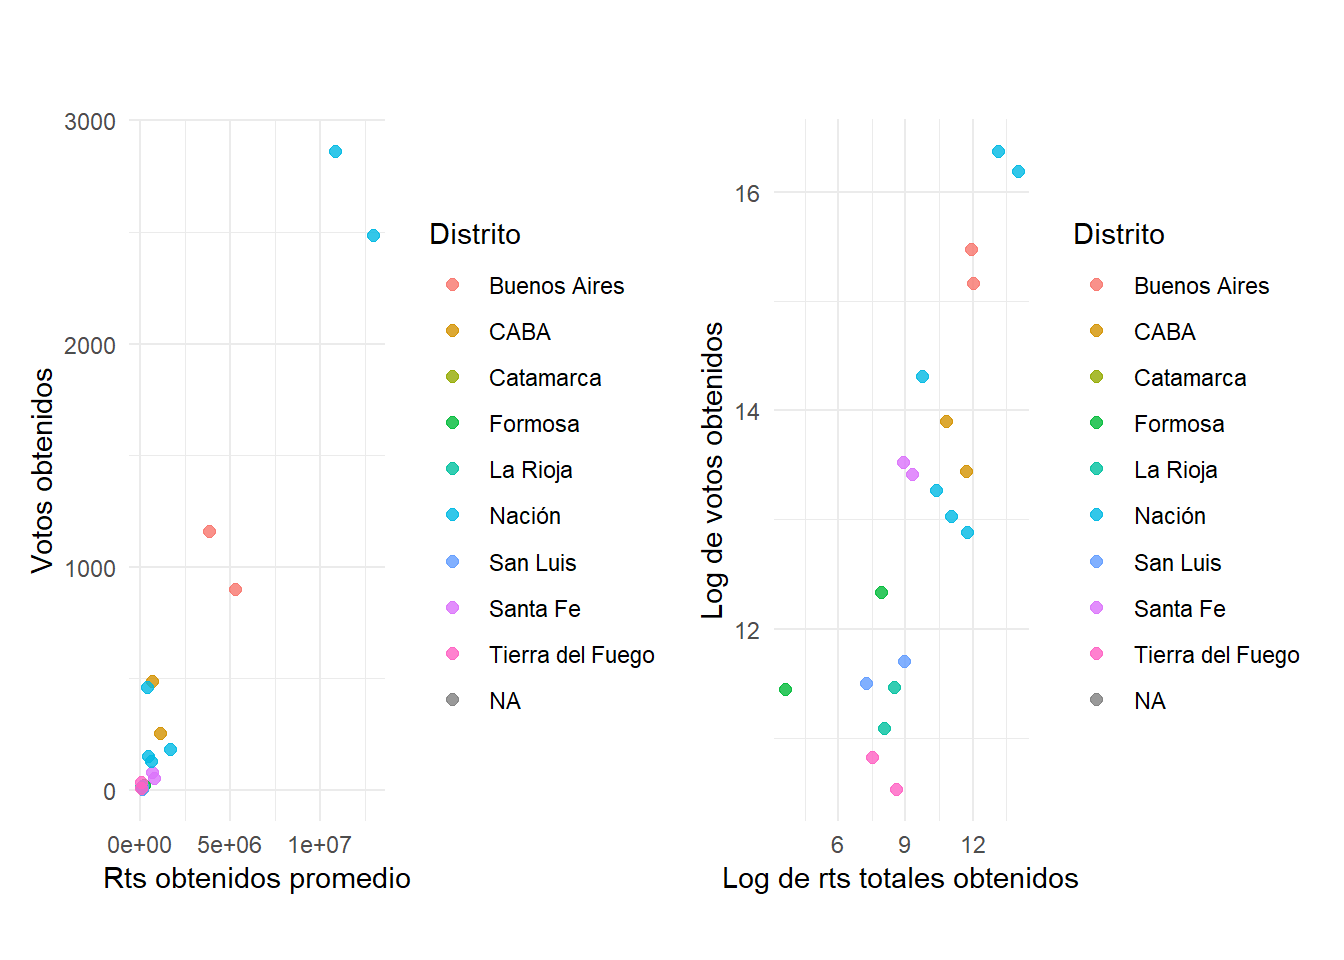
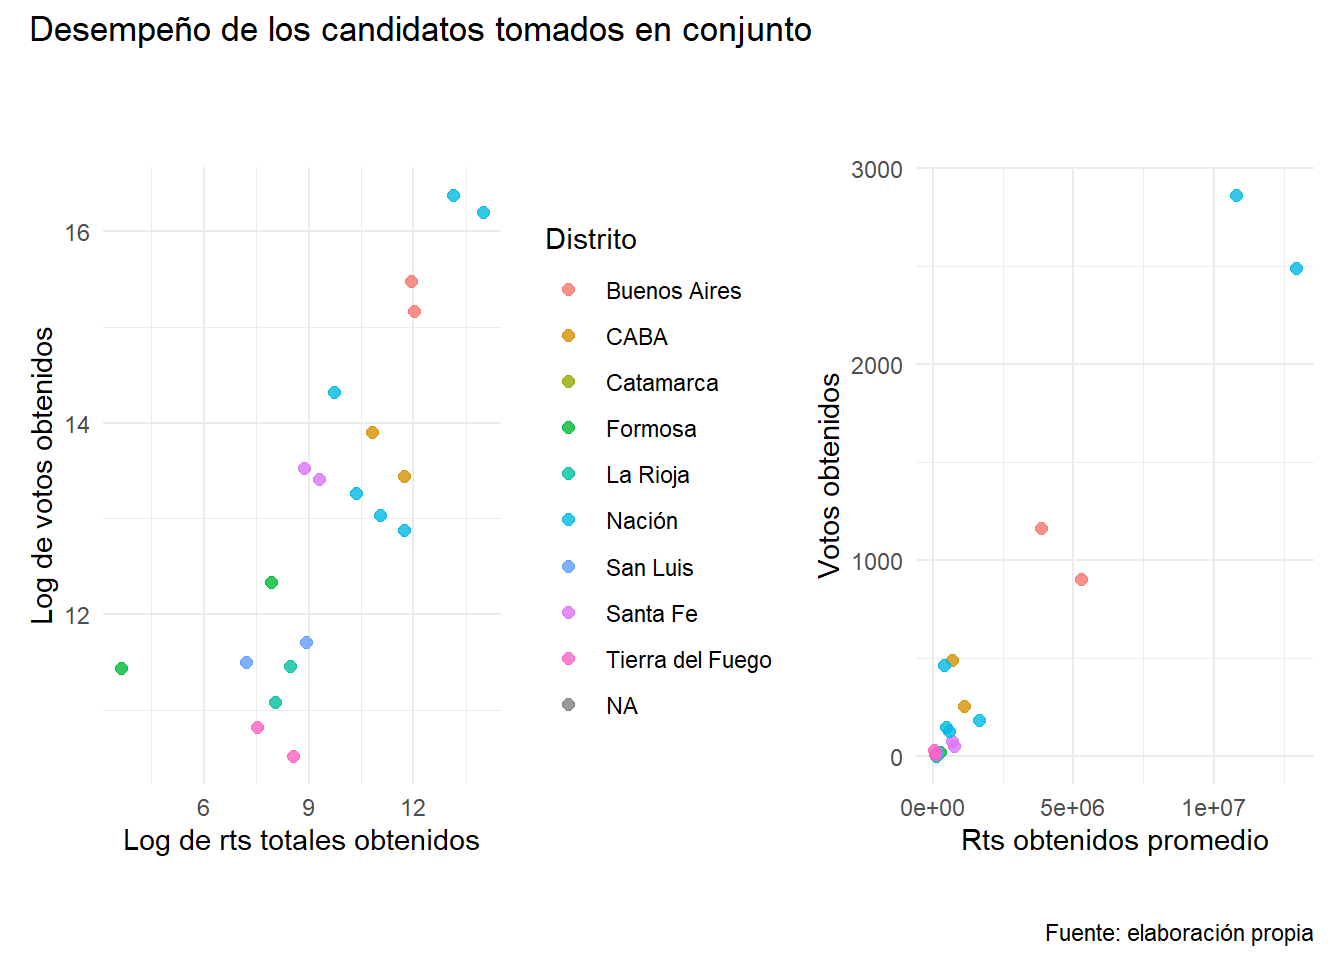
varios cambios menores.

diff --git a/content/post/explorando_popularidad/index.html b/content/post/explorando_popularidad/index.html
@@ -123,23 +123,25 @@ presid_popu_ranking &lt;- full_join(presid_popu,
 
 # rts / porcentaje de votos
 
-gobernadores_rtspromedio_porcentaje &lt;- plotPoint(gobernadores_popu_ranking, 
+gobernadores_rtspromedio_porcentaje &lt;-  plotPointText(gobernadores_popu_ranking, 
        aes(rts_obtenidos_promedio, 
            Porcentaje, 
-           colour = Distrito)) %&gt;% 
+           colour = Distrito), 
+       aes(label = screen_name)) %&gt;% 
   formatPlot(plottitle = &quot;a Gobernador&quot;, xlabel = &quot;&quot;, ylabel = &quot;&quot;) 
 
 # Presidente
 
 # rts / porcentaje de votos
 
-presid_rtspromedio_porcentaje &lt;- plotPoint(presid_popu_ranking, 
+presid_rtspromedio_porcentaje &lt;- plotPointText(presid_popu_ranking, 
        aes(rts_obtenidos_promedio, 
            Porcentaje, 
-           colour = screen_name)) + 
-    labs(title = &quot;a Presidente&quot;, 
-         x = &quot;Rts obtenidos promedio&quot;, 
-         y = &quot;% de votos obtenidos&quot;)
+           colour = screen_name),
+       aes(label=screen_name)) %&gt;%  
+    formatPlot(plottitle = &quot;a Presidente&quot;, 
+         xlabel = &quot;Rts obtenidos promedio&quot;, 
+         ylabel = &quot;% de votos obtenidos&quot;)
 
 
 # TODOS LOS CANDIDATOS
@@ -183,12 +185,12 @@ candidatos_rts_emitidos &lt;- plotPoint(candidatos_popu_ranking,
 <pre class="r"><code># Patchworks 
 # uniomos los gráficos para su presentación
 
-rtspromedio_porcentaje &lt;- gobernadores_rtspromedio_porcentaje | presid_rtspromedio_porcentaje  + 
+rtspromedio_porcentaje &lt;-  (presid_rtspromedio_porcentaje  | gobernadores_rtspromedio_porcentaje)  + 
   plot_annotation(
   title = &#39;Relación entre cantidad de Rts Promedio y Porcentaje de votos obtenido&#39;,
   caption = &quot;Fuente: elaboración propia&quot;)
 
-desempeño_totcandidatos &lt;- candidatos_rtspromedio_votos | candidatos_rts_votos  +
+desempeño_totcandidatos &lt;-  (candidatos_rts_votos |  candidatos_rtspromedio_votos)  +
   plot_annotation(
   title = &#39;Desempeño de los candidatos tomados en conjunto&#39;,
   caption = &quot;Fuente: elaboración propia&quot;)</code></pre>
@@ -208,7 +210,7 @@ desempeño_totcandidatos &lt;- candidatos_rtspromedio_votos | candidatos_rts_vot
 <p>Esto sugiere que sería interesante explorar de manera más sofisticada las relaciones entre el partido de los candidatos, su distrito de pertenencia, la cantidad de votos obtenidos, etc.</p>
 <p>¿Y qué hay de la propia actividad en la red social?</p>
 <p>El siguiente gráfico sugiere una relación débil o inexistente entre la cantidad de tuits emitidos y los rts obtenidos por nuestros candidatos.</p>
-<p><code>{ rg2, warning= FALSE, message= FALSE} candidatos_rts_emitidos</code></p>
+<p><code>{ r g3, warning= FALSE, message= FALSE} candidatos_rts_emitidos</code></p>
 <p>¡Pero claro! La cantidad de tuits que envía a la nube un candidato no es la única medida (de hecho, es una medida bastante mala) de qué tan atractivo es su discurso en esta red social.</p>
 <p>Querés explorar un poco más en las palabras y temas abordados por nuestros emisores? :fast_forward: seguime en el <a href="../exploracion_palabras/">siguiente post</a>.</p>
 <p>O bien podés <a href="/">volver al inicio :house:</a></p>

diff --git a/content/post/preparacion_funciones.md b/content/post/preparacion_funciones.md
@@ -114,7 +114,7 @@ Para conocer el detalle de estas funciones :mag:, seguir  [:arrow_right: este en
 Adicionalmente hemos simplificado algunas tareas con el desarrollo de funciones. Destacamos en particular dos que alivianan el ploteo de gráficos (y estandarizan su formato): `plotPoint` y `plotPointText` y `formatPlot`. 
 Las tres se sustentan en la gramática de [ggplot](https://ggplot2.tidyverse.org/). 
 Pueden [explorar :mag: el código aquí](https://github.com/CVFH/Tuits_arg_2019/blob/master/Modules/funcionesGraficos.R).
-Finalmente, hemos optado por "envolver" las operaciones para preparar nuestros datos en dos funciones respectivas: `traerDatosElectorales` y `traerDatosTuits`, como explicaremos a partir de la [próxima sección](/preparacion_datos). 
+Finalmente, hemos optado por "envolver" las operaciones para preparar nuestros datos en dos funciones respectivas: `traerDatosElectorales` y `traerDatosTuits`, como explicaremos a partir de la [próxima sección](/preparacion_datos/). 
 
 
 [^1]: Hemos leido y recomendamos [este libro](https://www.tidytextmining.com/)

diff --git a/content/post/preparacion_tuits/index.md b/content/post/preparacion_tuits/index.md
@@ -10,7 +10,7 @@ weight: 4
 
 El objetivo de este post es exponer los pasos realizados para agregar y formatear la :meat_on_bone: carne de nuestro proyecto: información relativa a los tuits emitidos por los candidatos a las elecciones de 2019 en la Argentina.
 
-De manera similar al [post anterior](../preparacion_electorales/), aquí referimos y explicamos brevemente el script ["preparacion_datos_tuits.R)"](https://github.com/CVFH/Tuits_arg_2019/blob/master/preparacion_datos_tuits.R), que define la función `traerDatosTuits()`[^1].
+De manera similar al [post anterior](../preparacion_electorales/), aquí referimos y explicamos brevemente el script ["preparacion_datos_tuits.R"](https://github.com/CVFH/Tuits_arg_2019/blob/master/preparacion_datos_tuits.R), que define la función `traerDatosTuits()`[^1].
 
 ## La previa
 

diff --git a/content/_index.md b/content/_index.md
@@ -3,7 +3,7 @@ date: "2021-01-26"
 title: ""
 ---
 
-![](../images/urna.jpg/)
+![](../images/urna2.jpg/)
 
 Bienvenidos a [**TuitsArg2019**](/about/): mi trabajo final para la materia [MétodosCiPol](https://tuqmano.github.io/MetodosCiPol/), _Herramientas Cuantitativas para el Análisis Político_. 
 
